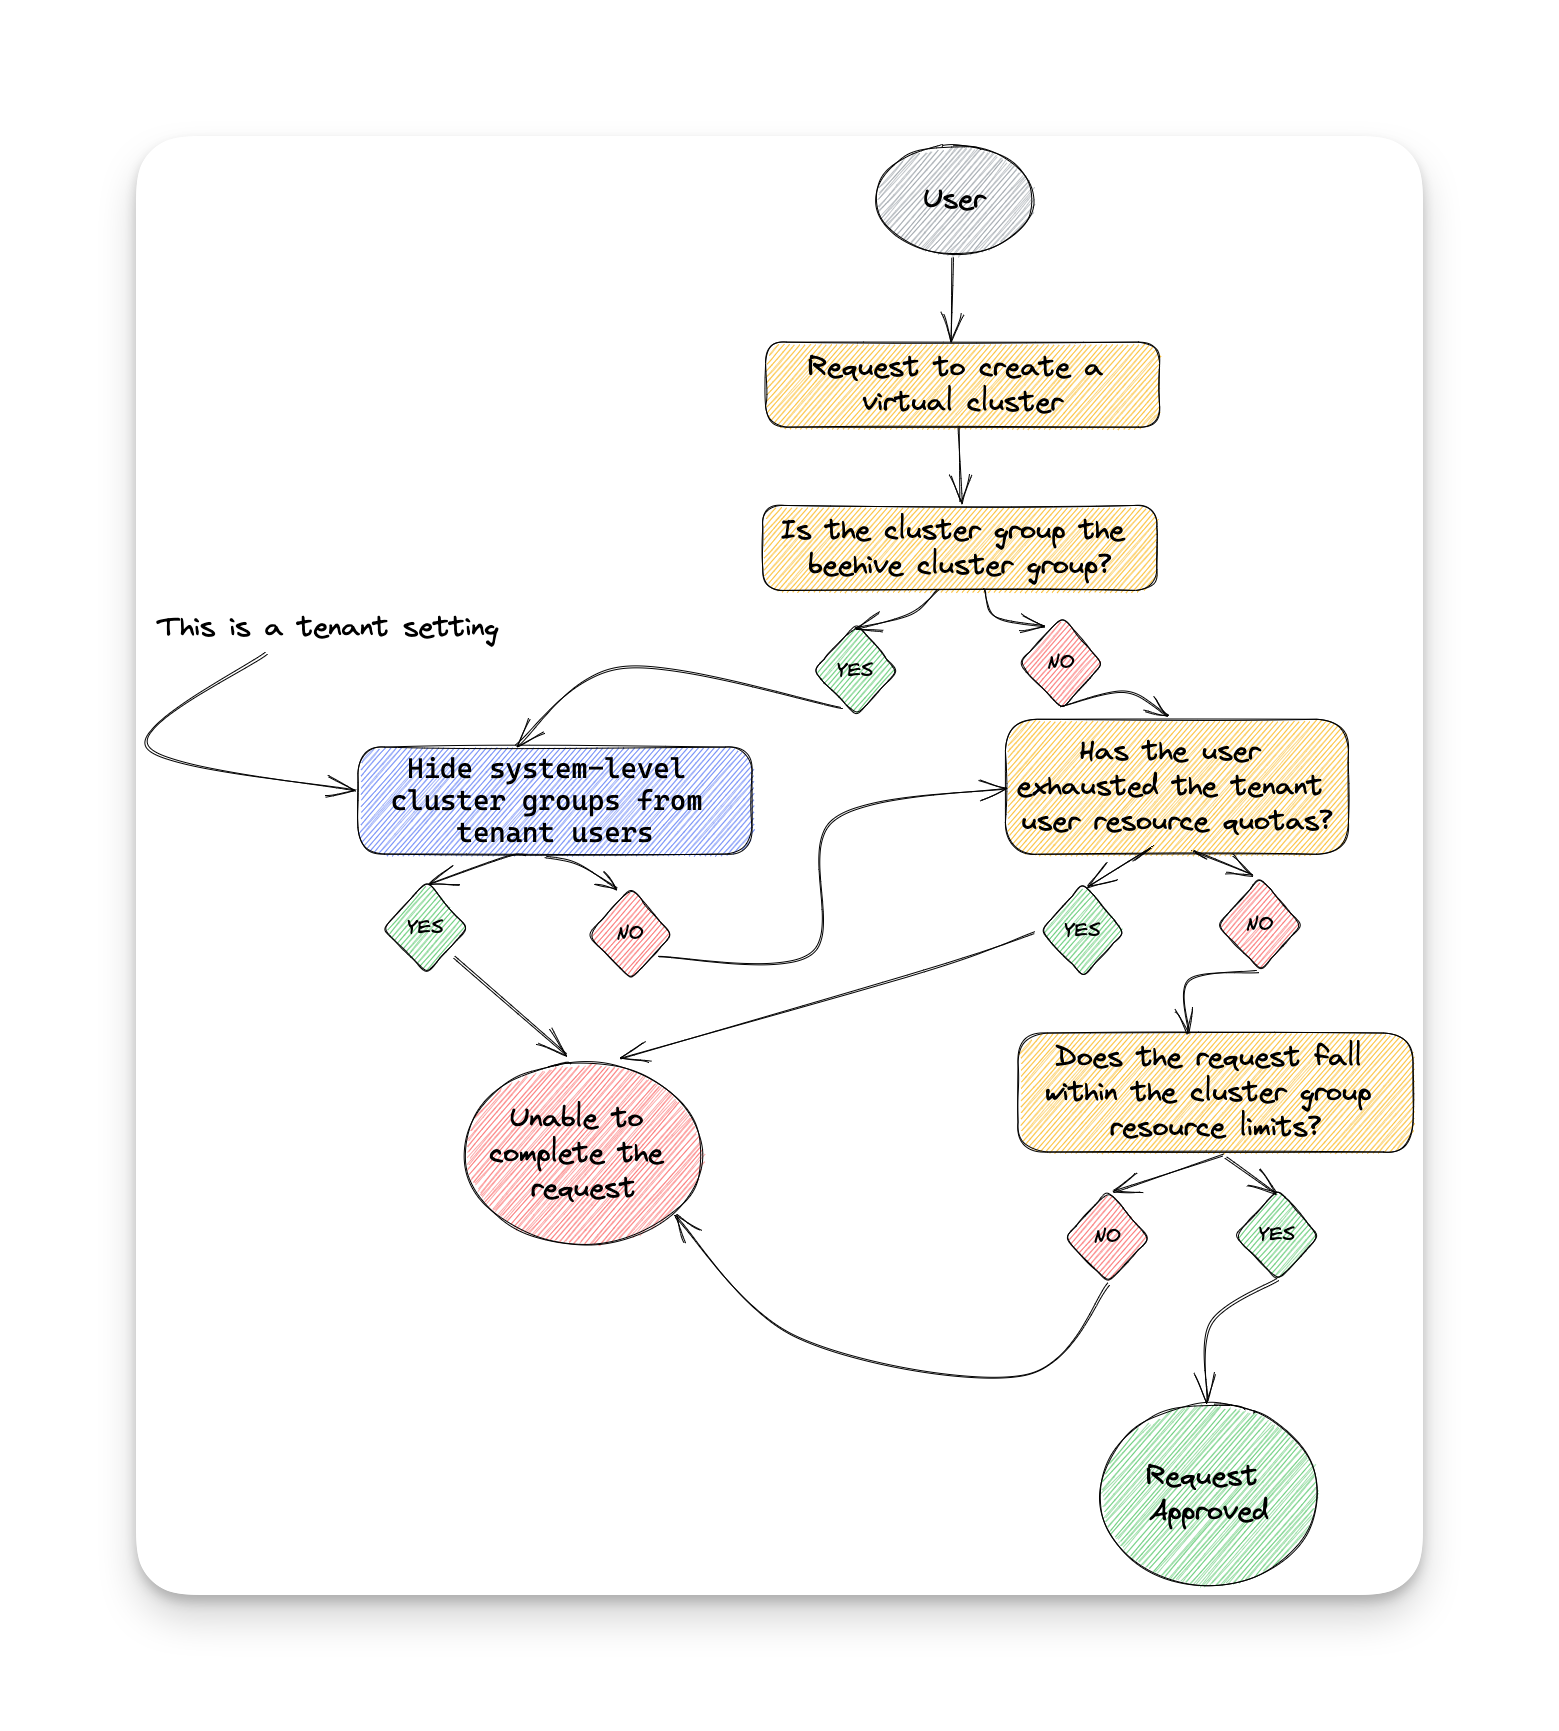
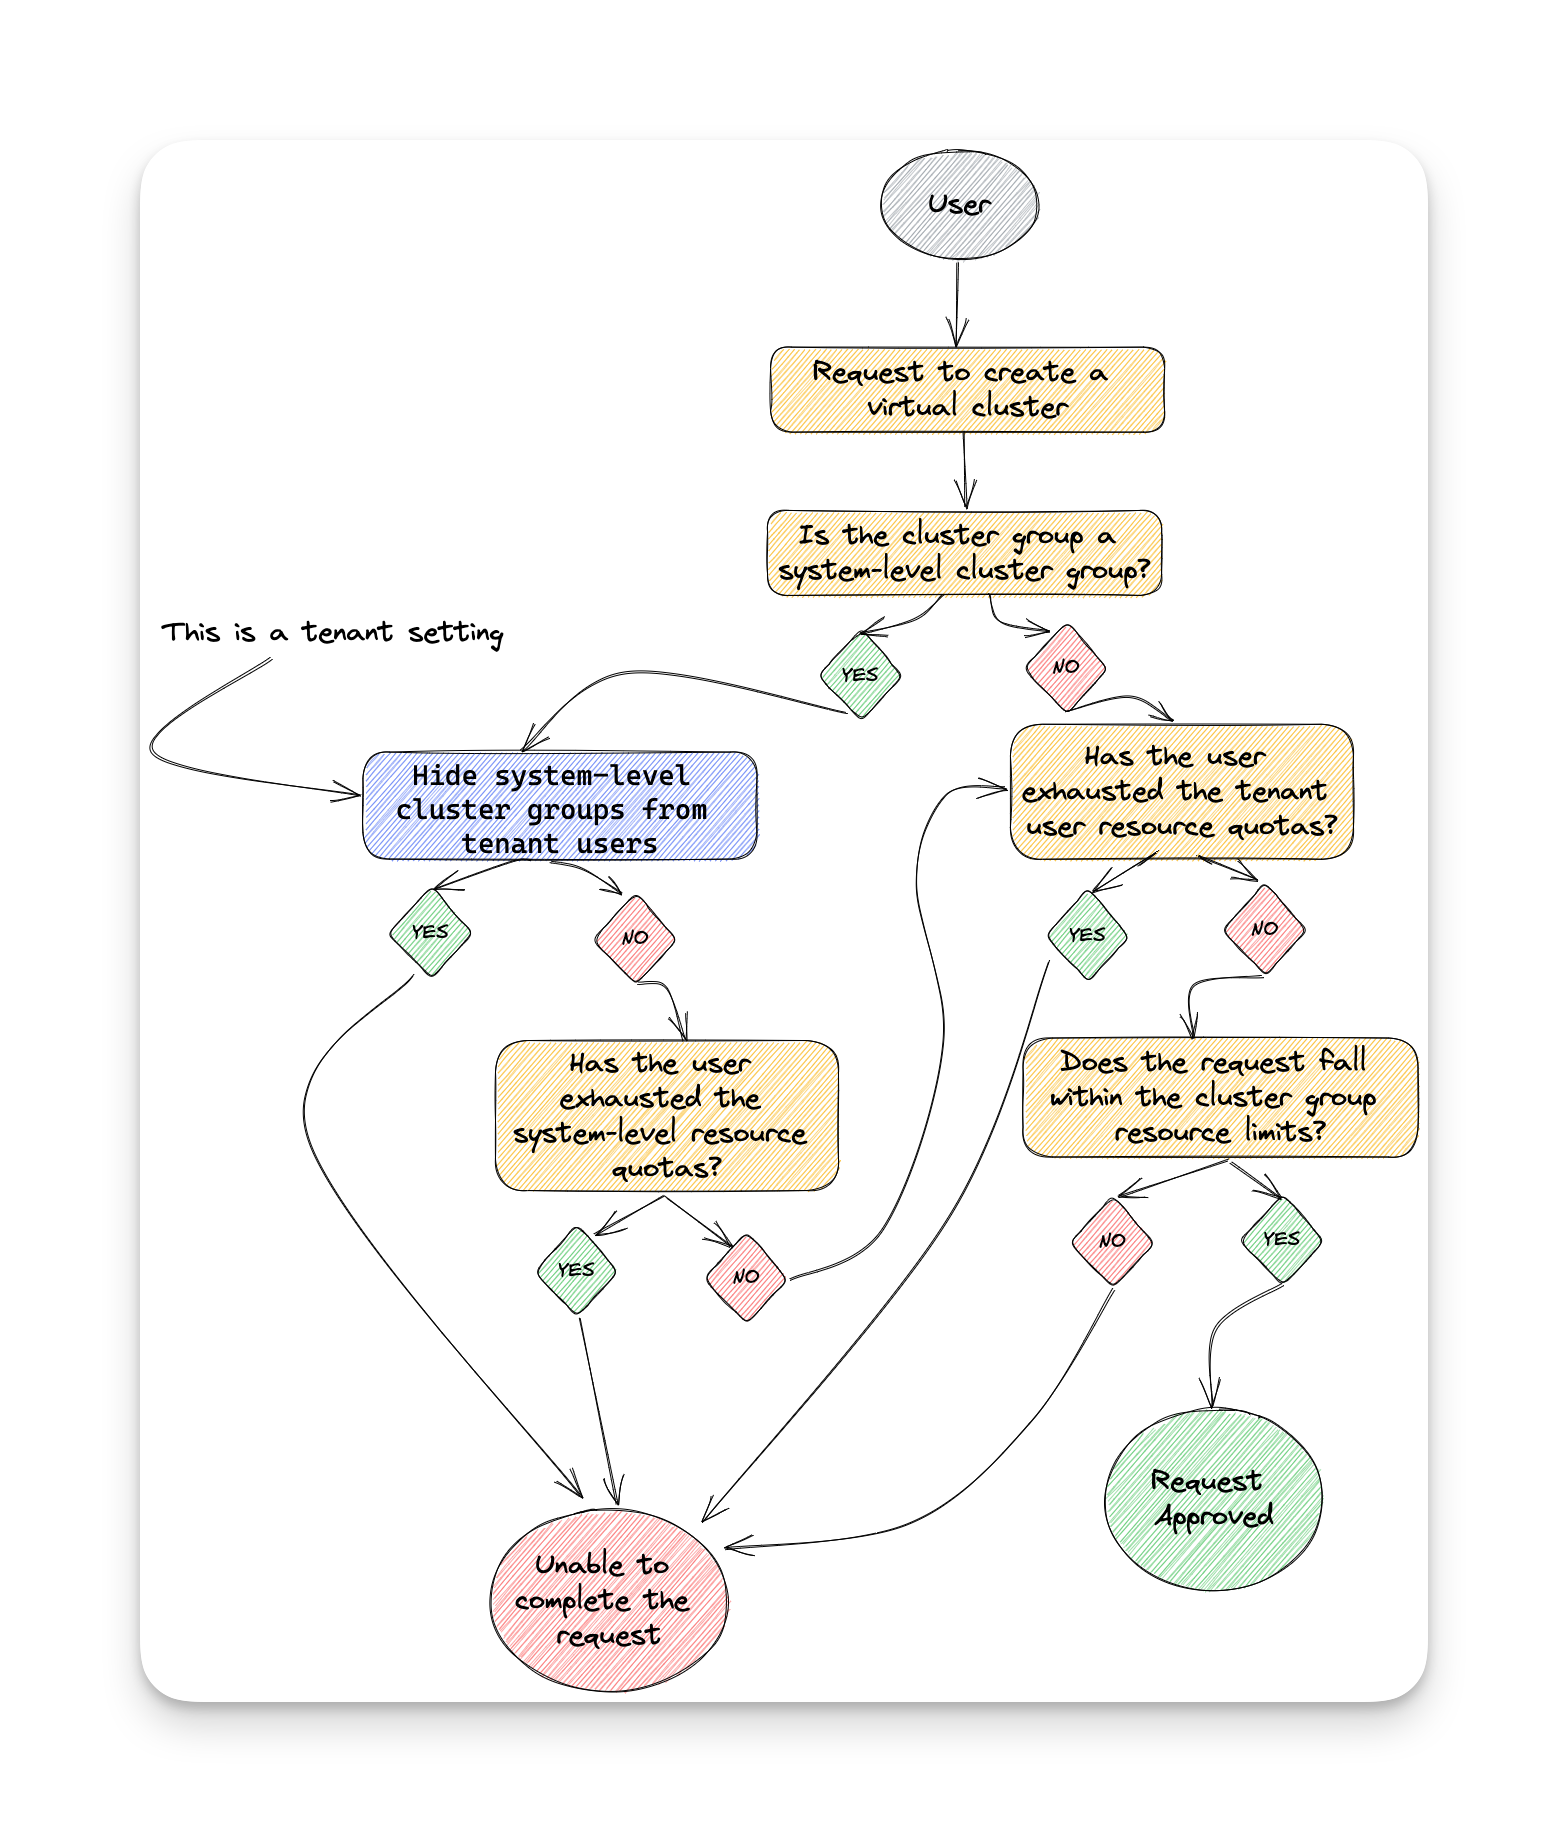
docs: updated resource quota per feedback

diff --git a/content/docs/04.5-devx/04-resource-quota.md b/content/docs/04.5-devx/04-resource-quota.md
@@ -19,7 +19,7 @@ This section covers the available deployment environments for Palette Virtual Cl
 
 # Available Environments
 
-Palette Dev Engine users have access to a Palette-managed cluster group named *beehive*. The beehive cluster group falls under the free tier of Palette and comes with its own set of resource limits. All users are subject to the following resource quotas when using the beehive cluster group.
+Palette Dev Engine users have access to a Palette-managed cluster group named *beehive*. The beehive cluster group is also a *system-level cluster group*, meaning that Spectro Cloud manages it. The beehive cluster group falls under the free tier of Palette and comes with its own set of resource limits. All users are subject to the following resource quotas when using the beehive cluster group.
 
 | Type            | Max Limit | Description                                                                                           |
 |-----------------|-----------|-------------------------------------------------------------------------------------------------------|
@@ -29,7 +29,7 @@ Palette Dev Engine users have access to a Palette-managed cluster group named *b
 | Storage         | 20 GiB    | Each user is allowed to consume a total of 20 GiB of storage. This limit spans both virtual clusters. |
 
 
-Palette administrators can remove the beehive cluster for all downstream users by setting the tenant developer setting **Hide system-level cluster groups from tenant users** to **true**. When this setting value is **true**, the beehive cluster is not displayed in the cluster group drop-down menu when deploying Palette virtual clusters.
+Palette administrators can remove the beehive cluster, and other system-level cluster groups for all downstream users by setting the tenant developer setting **Hide system-level cluster groups from tenant users** to **true**. When this setting value is **true**, the beehive cluster is not displayed in the cluster group drop-down menu when deploying Palette virtual clusters. 
 
 ![The deployment path for a user](/045-devx_resource-quota_is-beehive-enabled.png)
 
@@ -42,9 +42,9 @@ Virtual clusters inherit resource quotas from the parent cluster group. The clus
 
 |**Virtual Cluster** | **Minimum Limit**|
 |------------------------------|-----------------|
-|CPU (per request)             |  4               |
-| Memory (per request)         |  4 GiB           |
-| Storage (per request)        |  2 GiB           |
+|CPU (per request)             |  4              |
+|Memory (per request)         |  4 GiB           |
+|Storage (per request)        |  2 GiB           |
 
 
 <WarningBox>
@@ -118,6 +118,7 @@ To better understand this concept, use the following examples.
     * CPU: 20
     * Memory: 32 GiB
     * Storage: 60 GiB
+* Hide system-level cluster groups from tenant users: false
 
 
 * Cluster Group *dev-special* Virtual Cluster Settings
@@ -175,7 +176,7 @@ User B is creating a request to deploy a virtual cluster to the beehive cluster 
 
 **Request**: ✅
  
-**Explanation**: The request is accepted because it targets the beehive cluster group and not a cluster group managed by the tenant. Based on the cluster group quota, the number of requested resources falls within the within the approved limits of the beehive cluster group.
+**Explanation**: The request is accepted because it targets a system-level cluster group, the beehive cluster group and not a cluster group managed by the tenant. Based on the cluster group quota, the number of requested resources falls within the within the approved limits of the system-level quota.
 
 
 <br />
